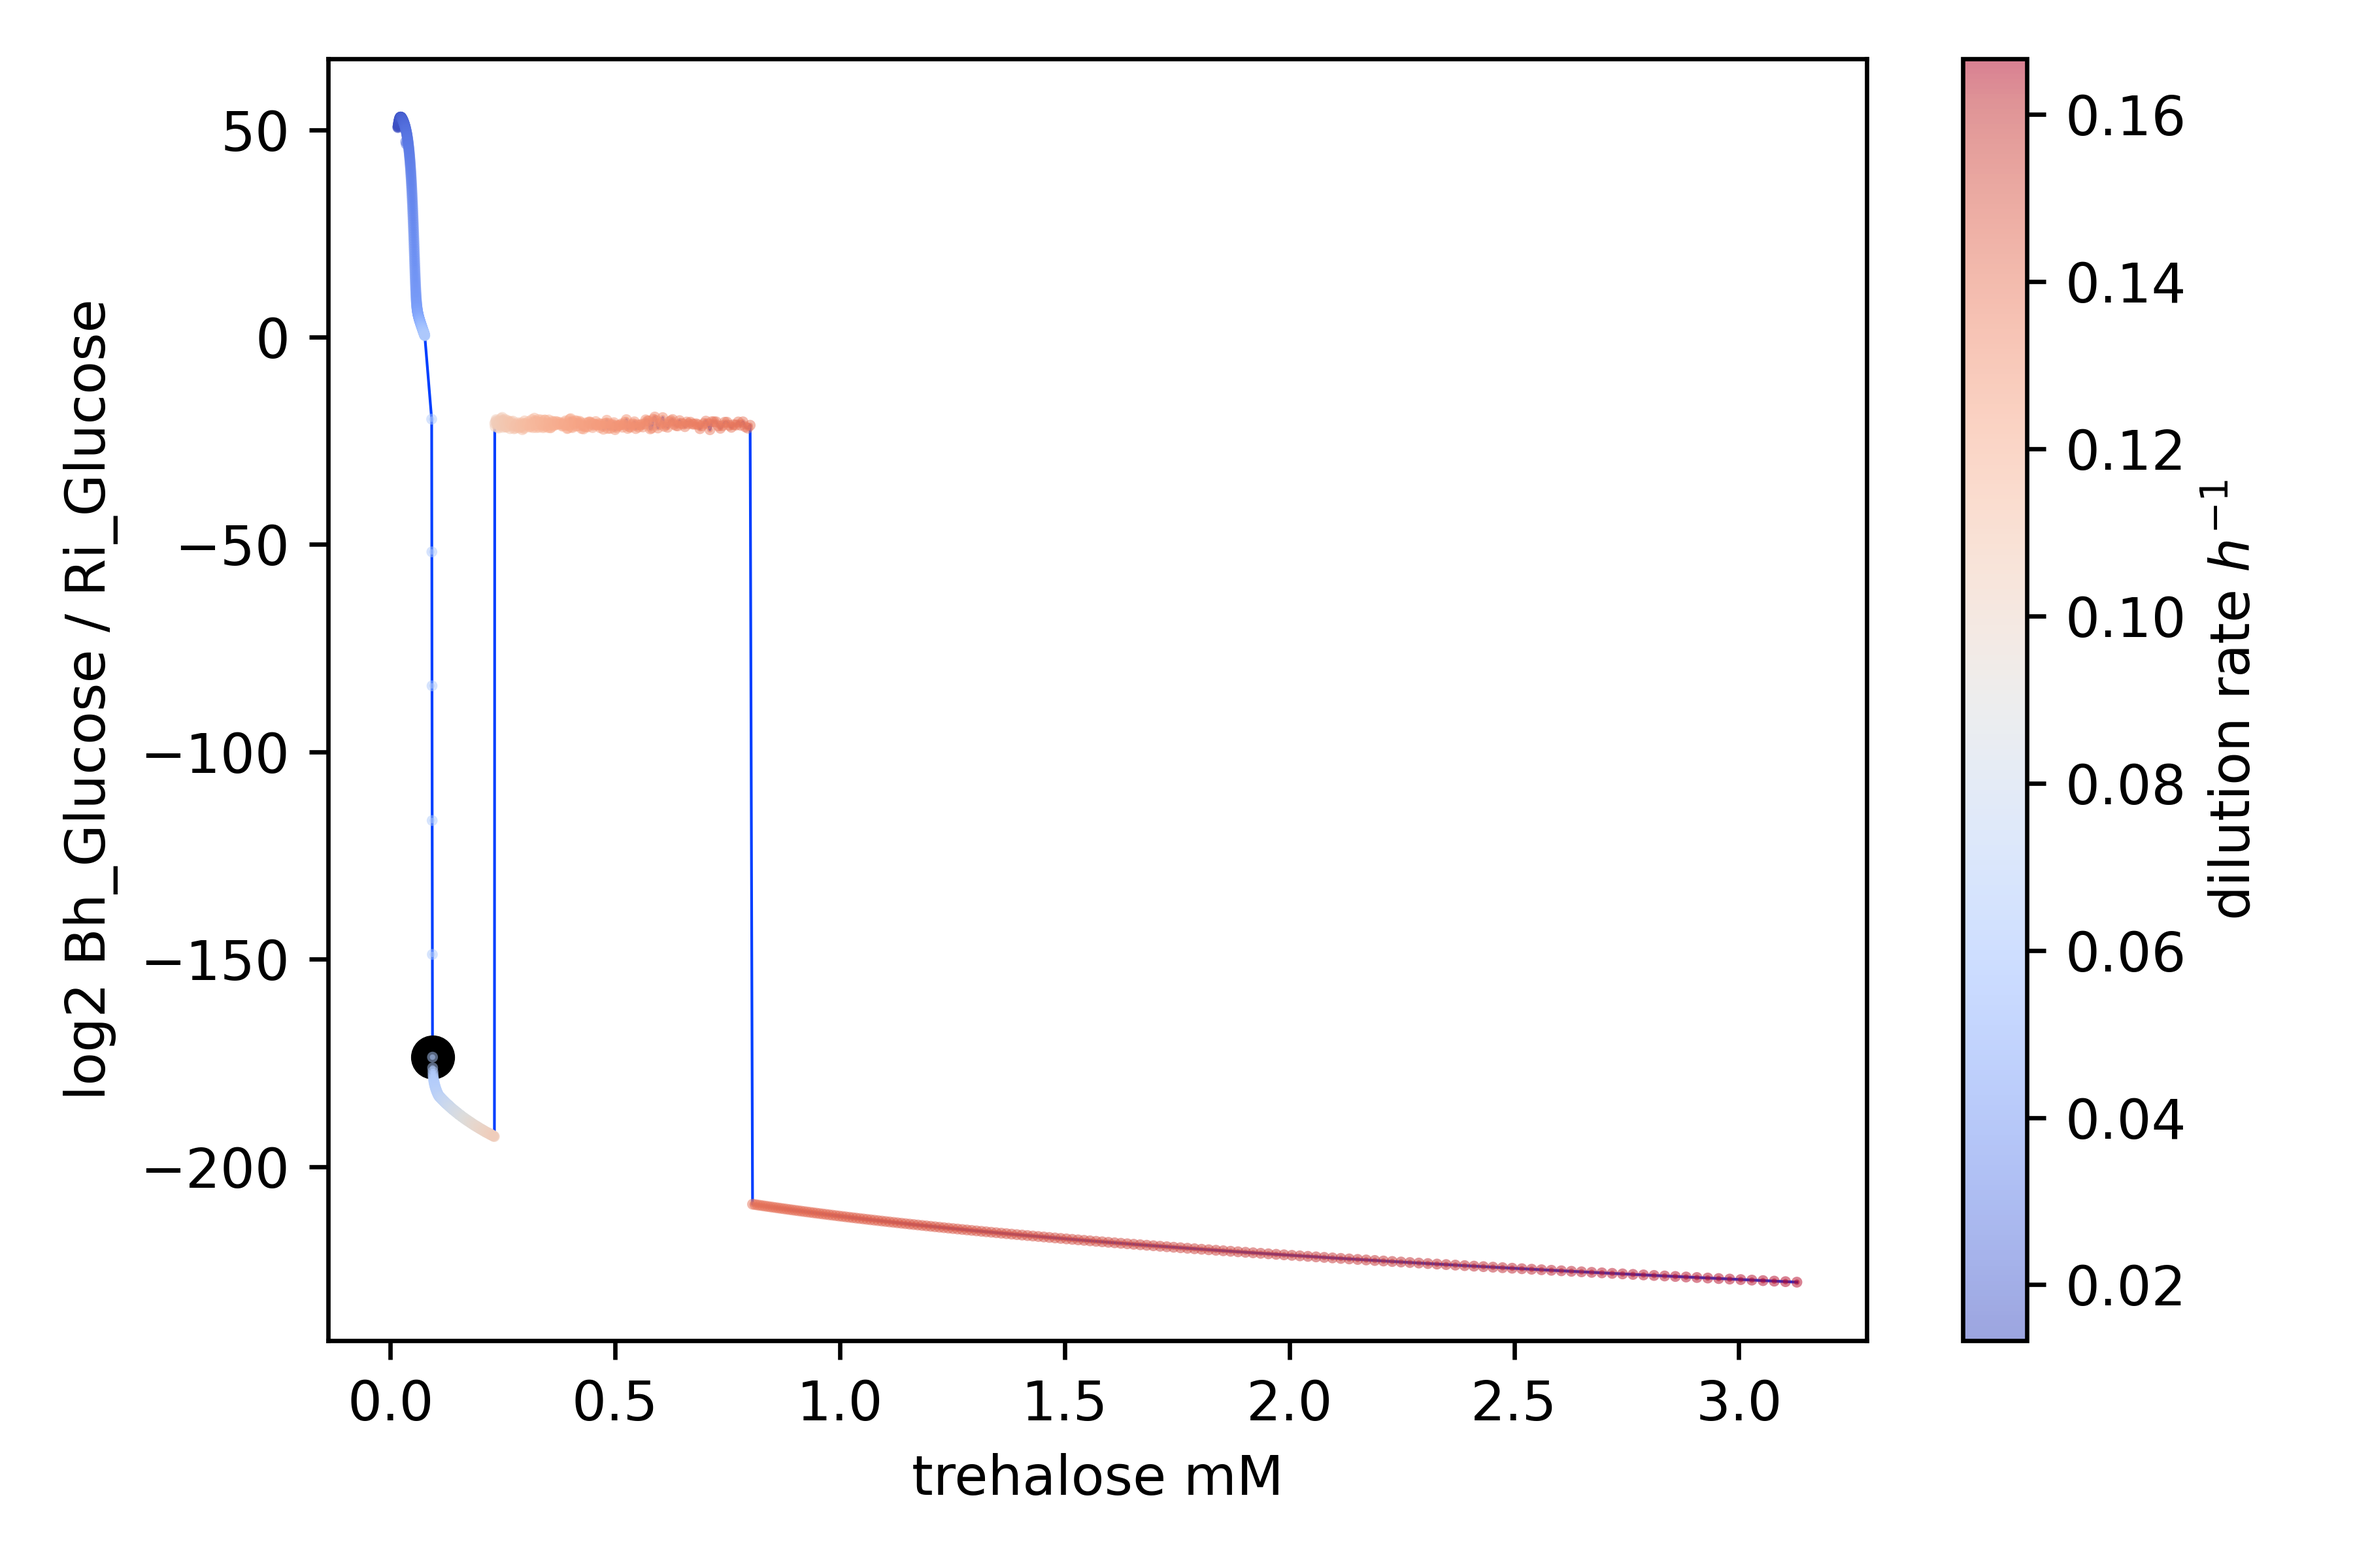
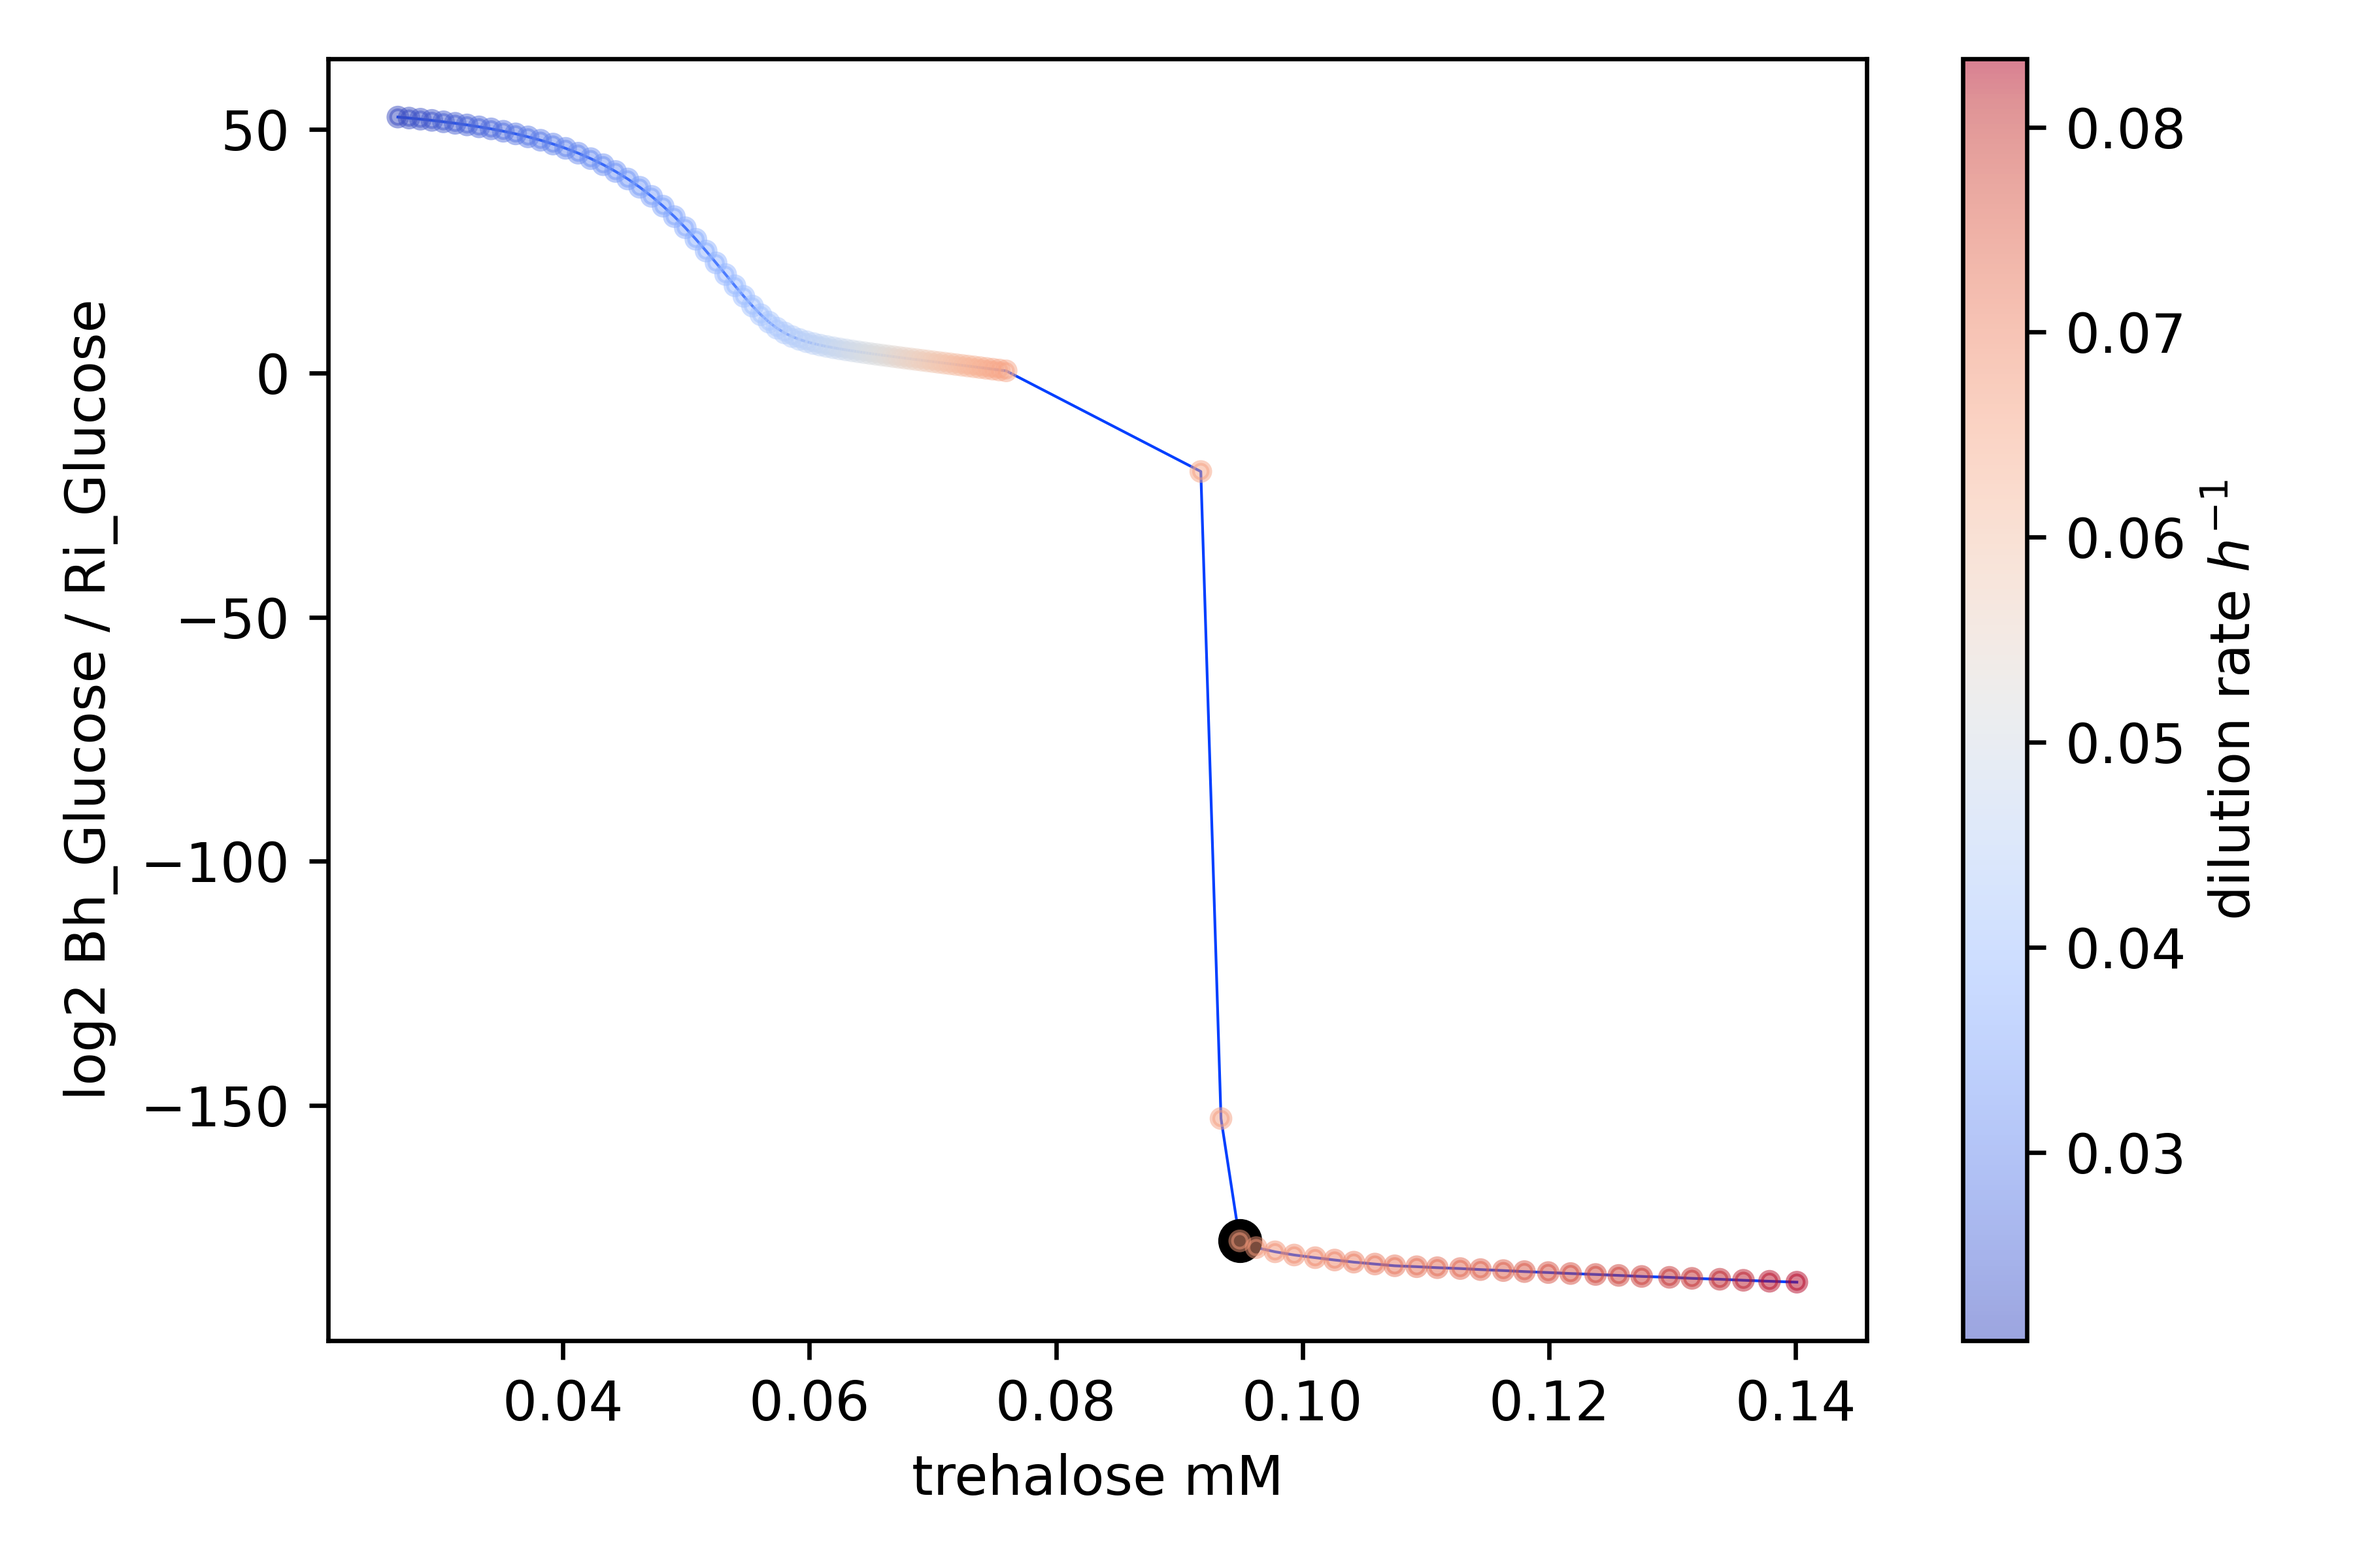
updates

diff --git a/scripts/simulations/bh_bt_ri_chemostat_treh_dilution.py b/scripts/simulations/bh_bt_ri_chemostat_treh_dilution.py
@@ -73,8 +73,8 @@ for i in np.linspace(0.3125, 1.25, 100):
     #get the feed media and the reactor media
     wc_feed = createMetabolome(db, 'wc', pH, pHFunc=predictpH)
     wc_reactor = createMetabolome(db, 'wc', pH, pHFunc=predictpH)
-    wc_reactor.metD['trehalose'].update(5.0)
-    wc_feed.metD['trehalose'].update(5.0)
+    #wc_reactor.metD['trehalose'].update(5.0)
+    #wc_feed.metD['trehalose'].update(5.0)
     
     
     #get the feed obj. Make it sterile
